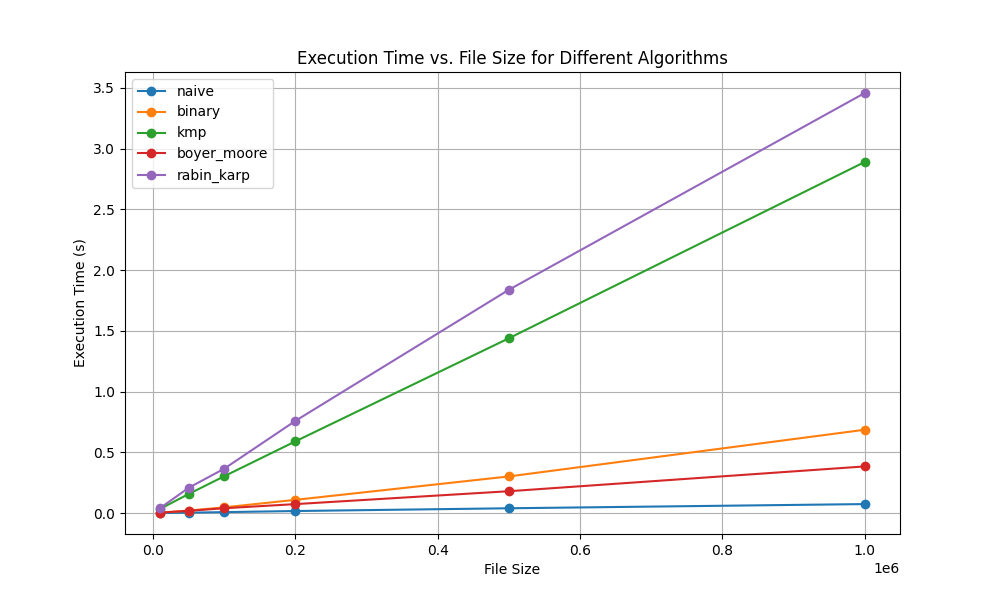
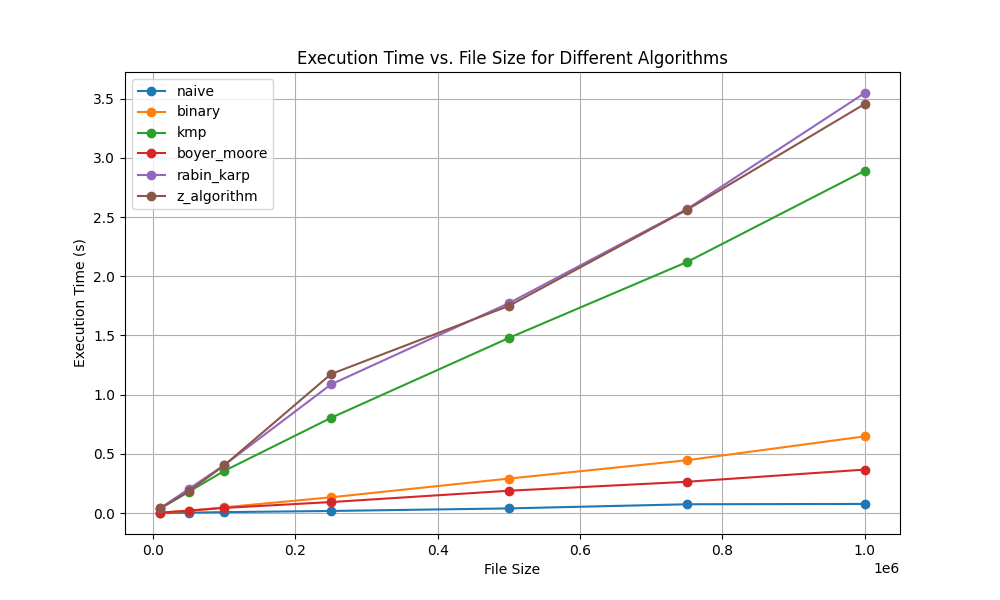
updated file-search algorithms benchmark script and results

diff --git a/file-search_algorithms.py b/file-search_algorithms.py
@@ -1,0 +1,225 @@
+import time
+import random
+import string
+import os
+
+# Define the search algorithms
+def naive_search(data, query):
+    return [line.strip() for line in data if line.strip() == query]
+
+def binary_search(data, query):
+    sorted_data = sorted(line.strip() for line in data)
+    low, high = 0, len(sorted_data) - 1
+    while low <= high:
+        mid = (low + high) // 2
+        if sorted_data[mid] == query:
+            return [sorted_data[mid]]
+        elif sorted_data[mid] < query:
+            low = mid + 1
+        else:
+            high = mid - 1
+    return []
+
+def kmp_search(data, query):
+    def compute_lps(pattern):
+        lps = [0] * len(pattern)
+        length = 0
+        i = 1
+        while i < len(pattern):
+            if pattern[i] == pattern[length]:
+                length += 1
+                lps[i] = length
+                i += 1
+            else:
+                if length != 0:
+                    length = lps[length - 1]
+                else:
+                    lps[i] = 0
+                    i += 1
+        return lps
+
+    results = []
+    lps = compute_lps(query)
+    for line in data:
+        line = line.strip()
+        i = j = 0
+        while i < len(line):
+            if query[j] == line[i]:
+                i += 1
+                j += 1
+            if j == len(query):
+                results.append(line)
+                j = lps[j - 1]
+            elif i < len(line) and query[j] != line[i]:
+                if j != 0:
+                    j = lps[j - 1]
+                else:
+                    i += 1
+    return results
+
+def boyer_moore_search(data, query):
+    def bad_char_table(pattern):
+        table = {}
+        for i in range(len(pattern) - 1):
+            table[pattern[i]] = len(pattern) - 1 - i
+        return table
+
+    def good_suffix_table(pattern):
+        table = [0] * len(pattern)
+        last_prefix = len(pattern)
+        for i in range(len(pattern) - 1, -1, -1):
+            if is_prefix(pattern, i + 1):
+                last_prefix = i + 1
+            table[len(pattern) - 1 - i] = last_prefix - i + len(pattern) - 1
+        for i in range(len(pattern) - 1):
+            slen = suffix_length(pattern, i)
+            table[slen] = len(pattern) - 1 - i + slen
+        return table
+
+    def is_prefix(pattern, p):
+        j = 0
+        for i in range(p, len(pattern)):
+            if pattern[i] != pattern[j]:
+                return False
+            j += 1
+        return True
+
+    def suffix_length(pattern, p):
+        length = 0
+        j = len(pattern) - 1
+        for i in range(p, -1, -1):
+            if pattern[i] == pattern[j]:
+                length += 1
+                j -= 1
+            else:
+                break
+        return length
+
+    bad_char = bad_char_table(query)
+    good_suffix = good_suffix_table(query)
+
+    results = []
+    for line in data:
+        line = line.strip()
+        i = len(query) - 1
+        while i < len(line):
+            j = len(query) - 1
+            while j >= 0 and line[i] == query[j]:
+                i -= 1
+                j -= 1
+            if j < 0:
+                results.append(line)
+                i += len(query) + 1
+            else:
+                i += max(good_suffix[len(query) - 1 - j], bad_char.get(line[i], len(query)))
+    return results
+
+def rabin_karp_search(data, query):
+    q = 101  # A prime number
+    d = 256  # Number of characters in the input alphabet
+    m = len(query)
+    h = pow(d, m-1) % q
+    p = 0
+    results = []
+
+    for line in data:
+        n = len(line.strip())
+        if n < m:  # Skip lines shorter than the query
+            continue
+        t = 0
+        for i in range(m):
+            p = (d * p + ord(query[i])) % q
+            t = (d * t + ord(line[i])) % q
+
+        for i in range(n - m + 1):
+            if p == t:
+                if line[i:i+m] == query:
+                    results.append(line)
+            if i < n - m:
+                t = (d * (t - ord(line[i]) * h) + ord(line[i + m])) % q
+                if t < 0:
+                    t += q
+
+    return results
+
+def z_algorithm_search(data, query):
+    def calculate_z_array(s):
+        z = [0] * len(s)
+        l, r, k = 0, 0, 0
+        for i in range(1, len(s)):
+            if i > r:
+                l, r = i, i
+                while r < len(s) and s[r] == s[r - l]:
+                    r += 1
+                z[i] = r - l
+                r -= 1
+            else:
+                k = i - l
+                if z[k] < r - i + 1:
+                    z[i] = z[k]
+                else:
+                    l = i
+                    while r < len(s) and s[r] == s[r - l]:
+                        r += 1
+                    z[i] = r - l
+                    r -= 1
+        return z
+
+    results = []
+    concat = query + "$" + ''.join(data)
+    z_array = calculate_z_array(concat)
+    query_length = len(query)
+    for i in range(query_length + 1, len(z_array)):
+        if z_array[i] == query_length:
+            results.append(concat[i - query_length - 1: i - query_length - 1 + query_length])
+    return results
+
+# Helper function to generate test files of different sizes
+def generate_test_file(filename, num_lines):
+    with open(filename, 'w') as f:
+        for _ in range(num_lines):
+            line = ''.join(random.choices(string.ascii_letters + string.digits, k=20))
+            f.write(line + '\n')
+
+# Benchmark different search algorithms on varying file sizes
+def benchmark_search_algorithms():
+    results = []
+    algorithms = {
+        'naive': naive_search,
+        'binary': binary_search,
+        'kmp': kmp_search,
+        'boyer_moore': boyer_moore_search,
+        'rabin_karp': rabin_karp_search,
+        'z_algorithm': z_algorithm_search,
+    }
+
+    file_sizes = [10000, 50000, 100000, 250000, 500000, 750000, 1000000]
+    for size in file_sizes:
+        filename = f'test_file_{size}.txt'
+        generate_test_file(filename, size)
+        with open(filename, 'r') as file:
+            data = file.readlines()
+        
+        for algorithm_name, algorithm_func in algorithms.items():
+            start_time = time.time()
+            query = ''.join(random.choices(string.ascii_letters + string.digits, k=20))
+            algorithm_func(data, query)
+            end_time = time.time()
+            execution_time = end_time - start_time
+            results.append((algorithm_name, size, execution_time))
+            print(f'Algorithm: {algorithm_name}, File Size: {size}, Execution Time: {execution_time:.4f}s')
+
+        os.remove(filename)
+
+    return results
+
+# Run the benchmark and save the results 
+if __name__ == "__main__":
+    benchmark_results = benchmark_search_algorithms()
+    # Save results to a file for the speed report 
+    with open('benchmark_results.txt', 'w') as f:
+        # Write the header 
+        f.write(f"{'Algorithm':<20} {'File Size':<15} {'Execution Time (s)':<20}\n")
+        f.write("="*55 + "\n")
+        for result in benchmark_results:
+            f.write(f"{result[0]:<20} {result[1]:<15} {result[2]:<20.4f}\n")
